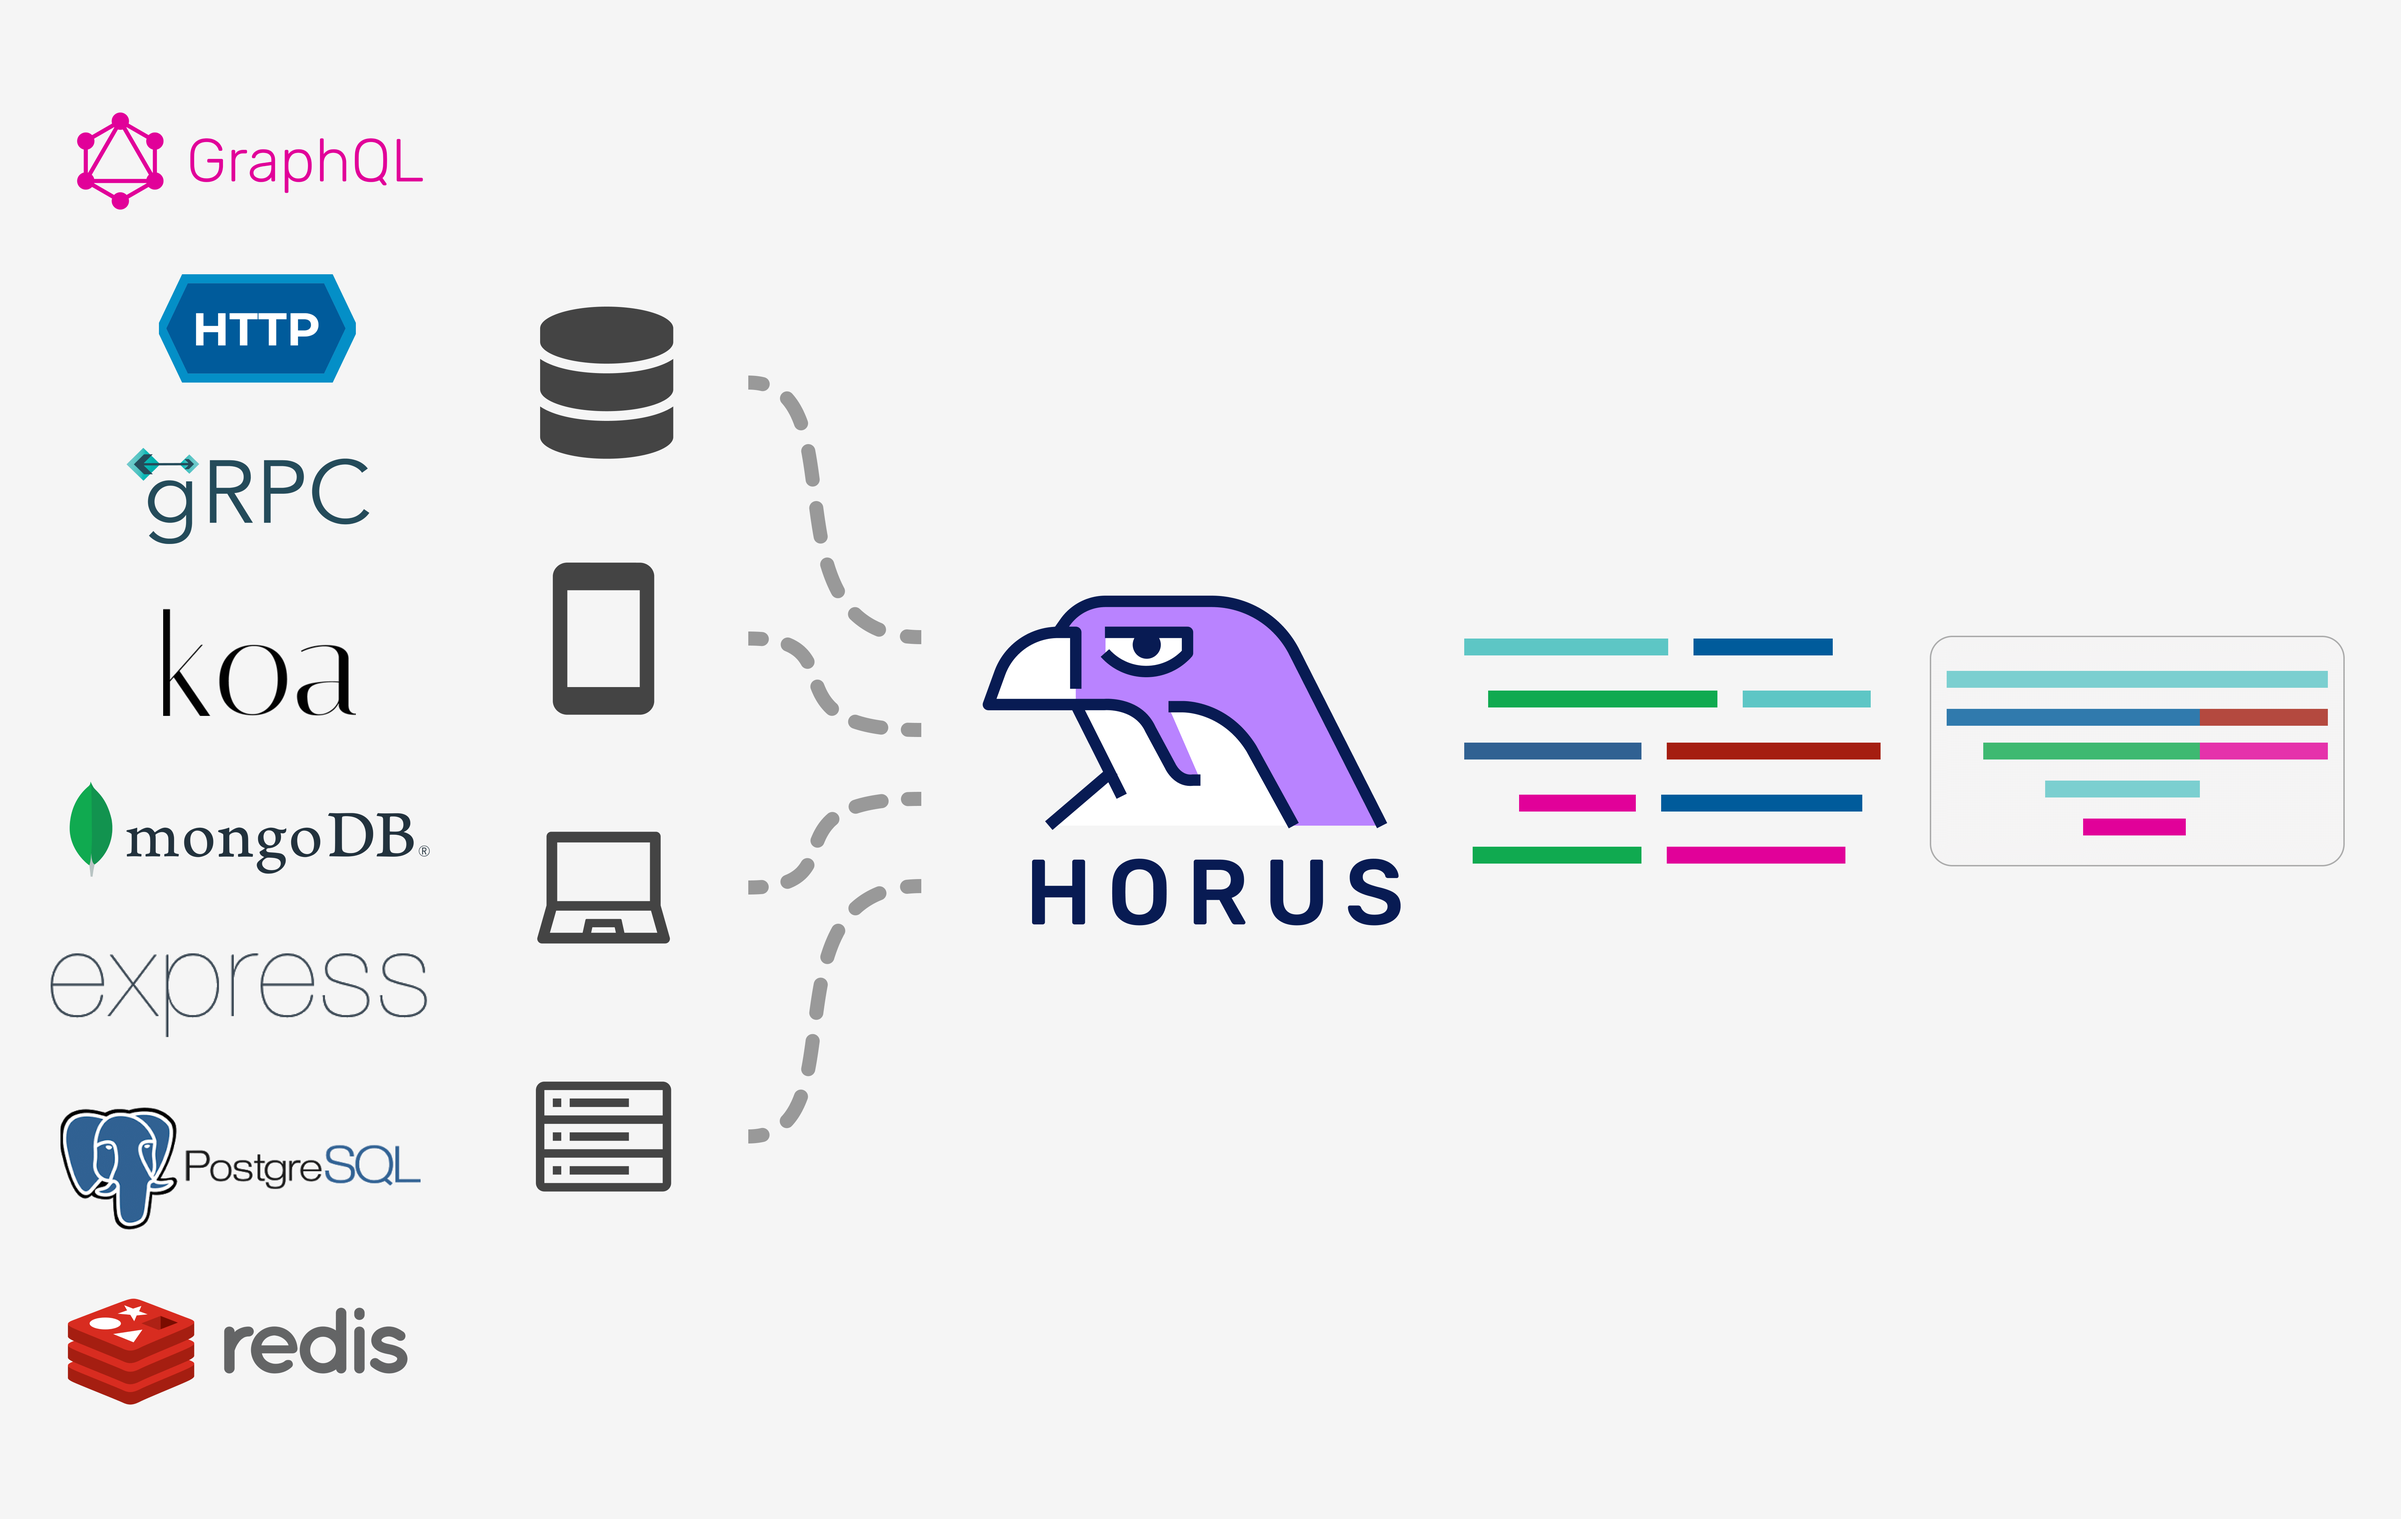
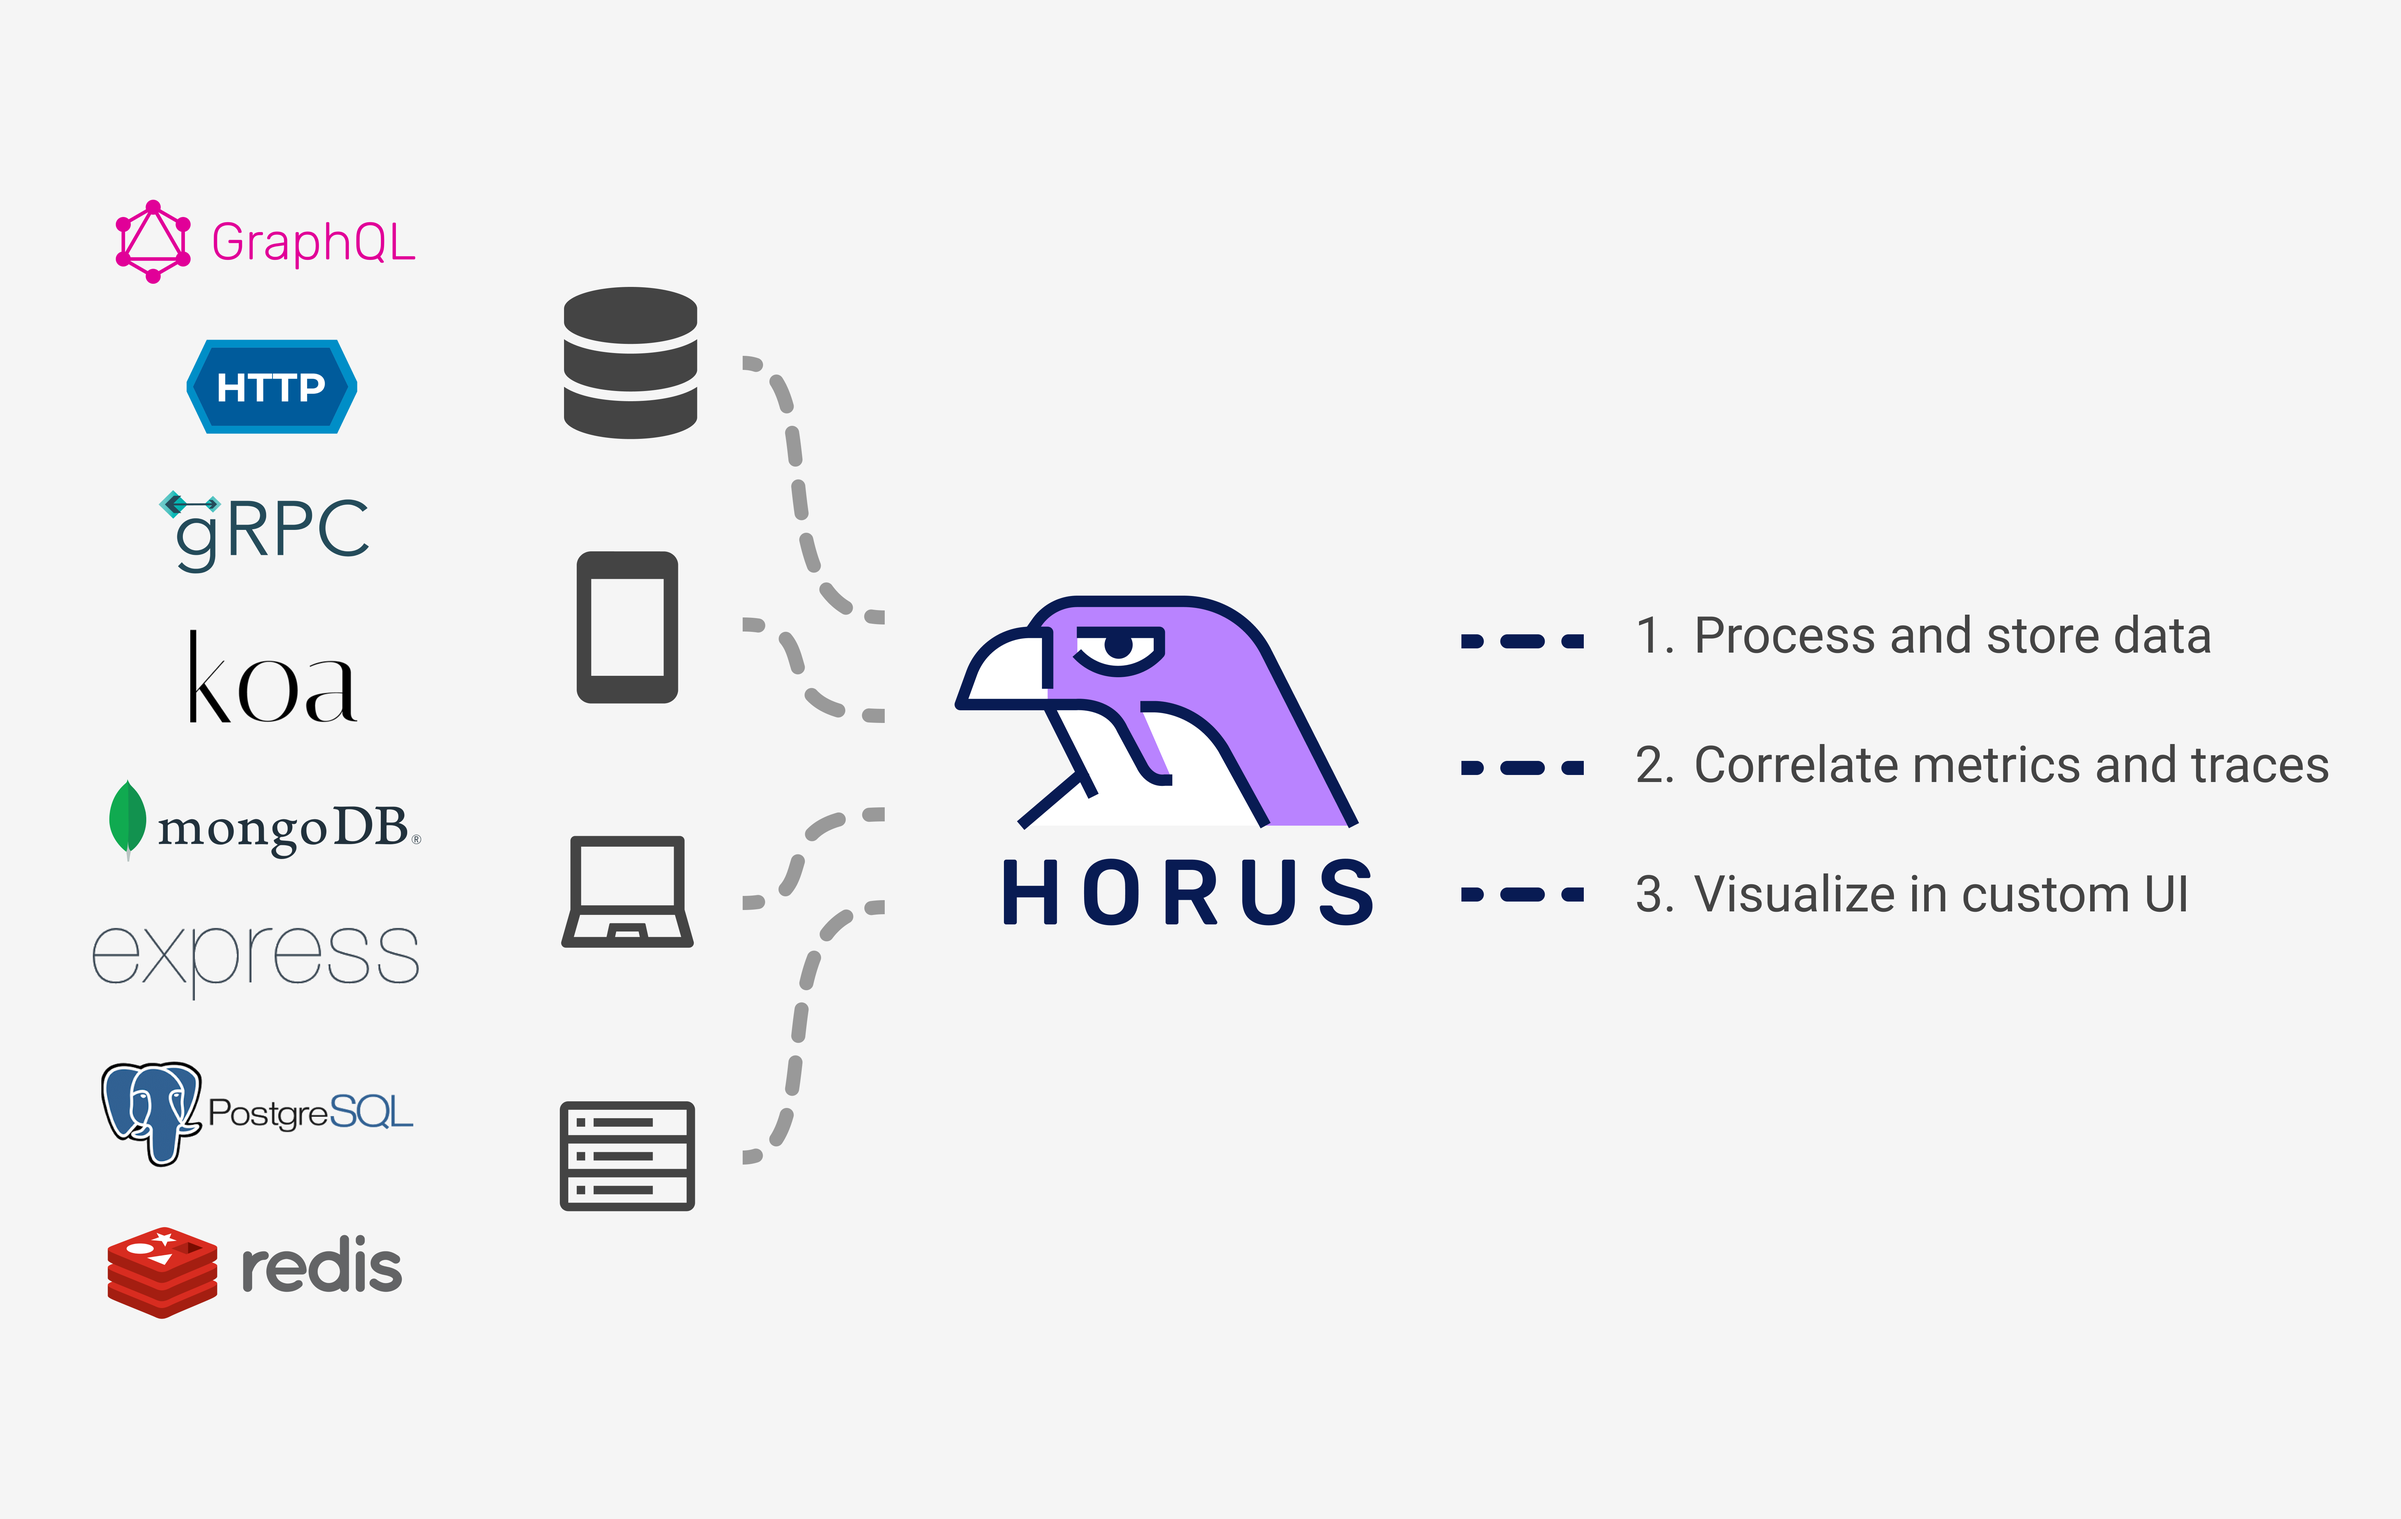
Change abstract for literal images

diff --git a/case-study.html b/case-study.html
@@ -21,10 +21,10 @@
         (n.className += t + "touch");
     })(window, document);
   </script>
-  <link href="assets/images/logo-color.png" rel="shortcut icon" type="image/x-icon" />
-  <link href="assets/images/logo-color.png" rel="apple-touch-icon" />
+  <link href="assets/images/horus_logo_color.png" rel="shortcut icon" type="image/x-icon" />
+  <link href="assets/images/horus_logo_color.png" rel="apple-touch-icon" />
   <script src="https://kit.fontawesome.com/d019875f94.js" crossorigin="anonymous"></script>
-  <meta name="image" property="og:image" content="assets/images/abstract-service-pic.png" />
+  <meta name="image" property="og:image" content="assets/images/horus_description_meta.png" />
 </head>
 
 <body>
@@ -33,7 +33,7 @@
       <div class="navigation-container">
         <div class="navigation-left">
           <a href="/" aria-current="page" class="brand w-nav-brand w—current" aria-label="home">
-            <img src="assets/images/horus_logo color.png" alt="" class="template-logo" />
+            <img src="assets/images/horus_logo_color.png" alt="" class="template-logo" />
           </a>
         </div>
         <div class="navigation-right">
@@ -435,11 +435,11 @@
         <!-- Section 5 -->
         <h2 class="h2" id="5">5. Horus Architecture</h2>
         <p>
-          Horus has four distinct but interrelated components: the <code>horus-agent</code>, connector, database, and UI. We wanted to develop an end-to-end observability tool, which means all the way from generating metrics and traces to a UI where the user can visualize them.  
+          Horus has four distinct but interrelated components: the <code>horus-agent</code>, connector, database, and UI. We wanted to develop an end-to-end observability tool, which means all the way from generating metrics and traces to a UI where the user can visualize them.
         </p>
         <figure>
           <img src="assets/images/case-study/generic-full-horus.png" class="case-study-image" />
-          <figcaption>The full Horus infrastrcture + Horus instrumented in a microservice application</figcaption>
+          <figcaption>Horus instrumented in a microservice application + the full Horus infrastructure</figcaption>
         </figure>
         <br>
         <h4>5.1 Horus Agent</h4>
@@ -790,7 +790,7 @@
         <!-- Section 8 -->
         <h2 class="h2" id="9">9. References</h2>
         <ol>
-          <li class="reference"> https://en.wikipedia.org/wiki/Telemetry </li>
+          <li class="reference first"> https://en.wikipedia.org/wiki/Telemetry </li>
           <li class="reference"> Software Telemetry, Jamie Riedesel, 2021</li>
           <li class="reference"> https://signoz.io/blog/jaeger-vs-prometheus/</li>
           <li class="reference"> https://blog.timescale.com/blog/timescaledb-vs-influxdb-for-time-series-data-timescale-influx-sql-nosql-36489299877/</li>

diff --git a/index.html b/index.html
@@ -11,8 +11,8 @@
     <script src="https://ajax.googleapis.com/ajax/libs/webfont/1.6.26/webfont.js" type="text/javascript"></script>
     <script type="text/javascript">WebFont.load({  google: {    families: ["Inter:regular,500,600,700"]  }});</script>
     <script type="text/javascript">!function(o,c){var n=c.documentElement,t=" w-mod-";n.className+=t+"js",("ontouchstart"in o||o.DocumentTouch&&c instanceof DocumentTouch)&&(n.className+=t+"touch")}(window,document);</script>
-    <link href="assets/images/logo-color.png" rel="shortcut icon" type="image/x-icon">
-    <link href="assets/images/logo-color.png" rel="apple-touch-icon">
+    <link href="assets/images/horus_logo_color.png" rel="shortcut icon" type="image/x-icon">
+    <link href="assets/images/horus_logo_color.png" rel="apple-touch-icon">
     <script src="https://kit.fontawesome.com/d019875f94.js" crossorigin="anonymous"></script>
     <meta name="image" property="og:image" content="assets/images/horus_description_meta.png" />
   </head>
@@ -22,7 +22,7 @@
         <div class="navigation-container">
           <div class="navigation-left">
             <a href="/" aria-current="page" class="brand w-nav-brand w--current" aria-label="home">
-              <img src="assets/images/horus_logo color.png" alt="" class="template-logo">
+              <img src="assets/images/horus_logo_color.png" alt="" class="template-logo">
             </a>
           </div>
           <div class="navigation-right">

diff --git a/team.html b/team.html
@@ -11,8 +11,8 @@
   <script type="text/javascript">WebFont.load({ google: { families: ["Inter:regular,500,600,700"] } });</script>
   <script
     type="text/javascript">!function (o, c) { var n = c.documentElement, t = " w-mod-"; n.className += t + "js", ("ontouchstart" in o || o.DocumentTouch && c instanceof DocumentTouch) && (n.className += t + "touch") }(window, document);</script>
-  <link href="assets/images/logo-color.png" rel="shortcut icon" type="image/x-icon">
-  <link href="assets/images/logo-color.png" rel="apple-touch-icon">
+  <link href="assets/images/horus_logo_color.png" rel="shortcut icon" type="image/x-icon">
+  <link href="assets/images/horus_logo_color.png" rel="apple-touch-icon">
   <script src="https://kit.fontawesome.com/d019875f94.js" crossorigin="anonymous"></script>
 </head>
 
@@ -22,7 +22,7 @@
       <div class="navigation-container">
         <div class="navigation-left">
           <a href="/" aria-current="page" class="brand w-nav-brand w--current" aria-label="home">
-            <img src="assets/images/horus_logo color.png" alt="" class="template-logo">
+            <img src="assets/images/horus_logo_color.png" alt="" class="template-logo">
           </a>
         </div>
         <div class="navigation-right">

diff --git a/assets/css/style.css b/assets/css/style.css
@@ -2000,6 +2000,10 @@ code {
   padding-top: 30px;
 }
 
+.reference.first {
+  padding-top: 0px;
+}
+
 sup {
   color: #b983ff;
 }
